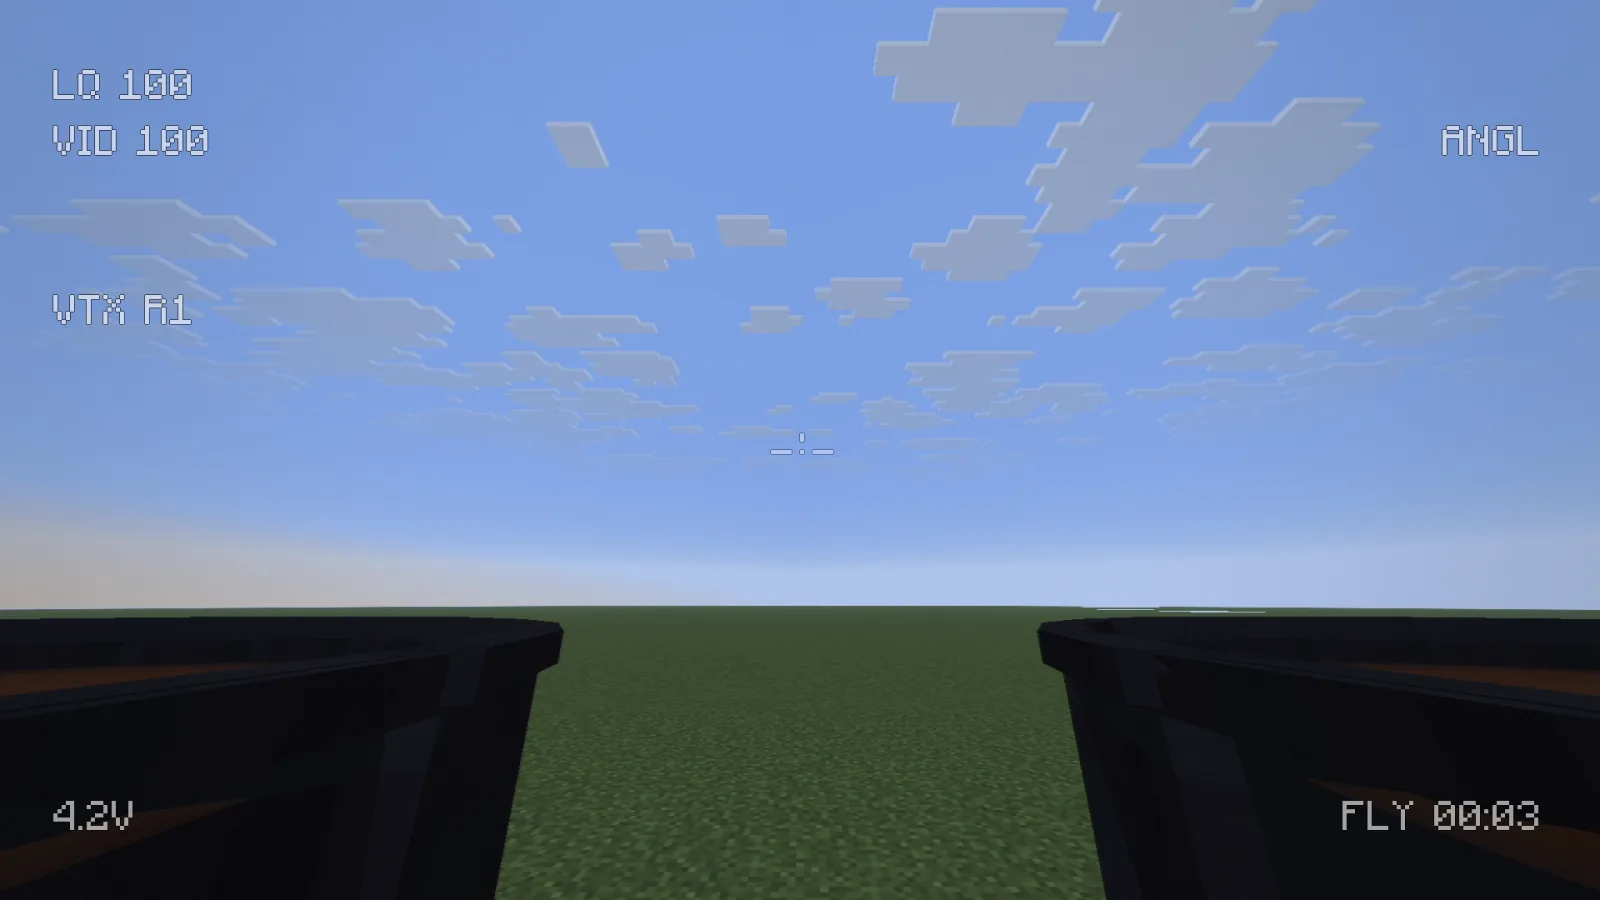
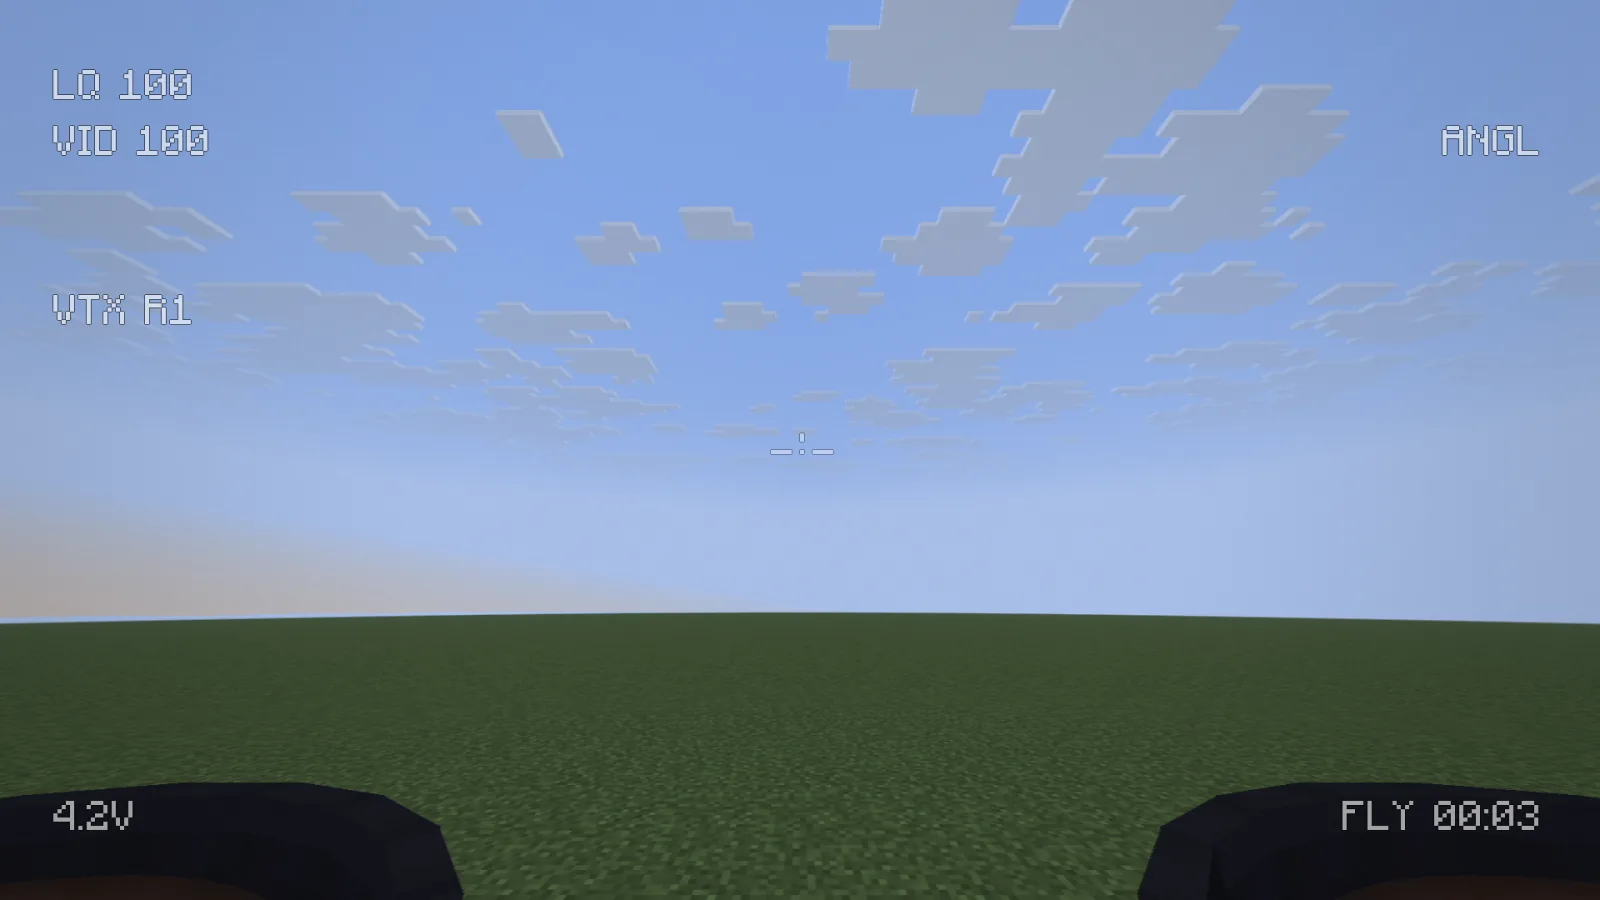
Doku: Ducts im FPV-Bild liegen bei Whoop und Cinewhoop unten in den Ecken, weil die Kamera wie bei echten darüber sitzt (vorher „beim Cinewhoop an den Seiten“); Bild des Whoops aus dem Release-Stand

diff --git a/docs/guide/index.html b/docs/guide/index.html
@@ -338,7 +338,7 @@
 <li><span lang="en"><strong>Image format</strong> (<em>Video</em> tab): <em>16:9</em> fills the whole window as before; <em>4:3</em> shows the picture like analog goggles, with black bars left and right, more view above and below and the OSD inside the 4:3 image; <em>Auto</em> picks 4:3 for analog and 16:9 for digital video, also while spectating. The setting is personal and changes nothing for the server or the flight model.</span><span lang="de"><strong>Bildformat</strong> (Tab <em>Video</em>): <em>16:9</em> füllt wie bisher das ganze Fenster; <em>4:3</em> zeigt das Bild wie eine analoge Brille, mit schwarzen Rändern links und rechts, mehr Sicht oben und unten und dem OSD im 4:3-Bild; <em>Auto</em> nimmt 4:3 für analoges und 16:9 für digitales Video, auch beim Zuschauen. Die Einstellung ist persönlich und ändert nichts für Server oder Flugmodell.</span></li>
 <li><span lang="en"><strong>Video behind obstacles:</strong> trees, houses, forests, water and hills weaken analog and digital video by what they are made of. Leaves cost a little per block, wooden walls more, masonry and concrete a lot; trunks, earth, rock, water and metal let nothing through, but the signal still bends around edges. Hiding behind a tree shows in the picture at freestyle distances, and flying close past an obstacle already costs some signal. With nothing in the way the range is the same as before.</span><span lang="de"><strong>Video hinter Hindernissen:</strong> Bäume, Häuser, Wälder, Wasser und Hügel schwächen analoges und digitales Video je nach Material. Laub kostet pro Block wenig, Holzwände mehr, Mauerwerk und Beton viel; Stämme, Erde, Fels, Wasser und Metall lassen nichts durch, um Kanten beugt sich das Signal aber trotzdem. Wer sich hinter einem Baum versteckt, sieht das bei Freestyle-Entfernungen im Bild, und schon knapp an einem Hindernis vorbei kostet es etwas Signal. Ohne Hindernis ist die Reichweite dieselbe wie bisher.</span></li>
 <li><span lang="en"><strong>LED lighting in FPV view</strong> (<em>Video</em> tab, on by default) lets the LED strip light up your FPV view in a cone in front of the drone at night and in caves; turn it off just for you. If a graphics driver draws the light wrong, Propwash notices and switches to a simpler brightening by itself.</span><span lang="de"><strong>LED-Ausleuchtung</strong> (Tab <em>Video</em>, Standard an) lässt den LED-Streifen nachts und in Höhlen das FPV-Bild in einem Lichtkegel vor der Drohne aufhellen; aus schaltet sie nur für dich ab. Zeichnet ein Grafiktreiber das Licht falsch, merkt Propwash das und schaltet selbst auf eine einfache Aufhellung um.</span></li>
-<li><span lang="en"><strong>Ducts in FPV view</strong> (<em>Display</em> tab, on by default): whoops and cinewhoops see their own ducts where the real camera would – the front ducts in the lower corners on a whoop, at the sides on a cinewhoop – matching camera position, uptilt, field of view and paint. Display only, no effect on the flight model.</span><span lang="de"><strong>Ducts im FPV-Bild</strong> (Tab <em>Darstellung</em>, Standard an): Whoops und Cinewhoops sehen ihre eigenen Ducts dort, wo die echte Kamera sie sähe – beim Whoop die vorderen Ducts in den unteren Ecken, beim Cinewhoop an den Seiten –, passend zu Kameraposition, Uptilt, Sichtfeld und Lackierung. Nur Darstellung, kein Einfluss auf das Flugmodell.</span></li>
+<li><span lang="en"><strong>Ducts in FPV view</strong> (<em>Display</em> tab, on by default): whoops and cinewhoops see their own ducts where the real camera would – the front ducts in the lower corners, because the camera sits above them like on real ones – matching camera position, uptilt, field of view and paint. Display only, no effect on the flight model.</span><span lang="de"><strong>Ducts im FPV-Bild</strong> (Tab <em>Darstellung</em>, Standard an): Whoops und Cinewhoops sehen ihre eigenen Ducts dort, wo die echte Kamera sie sähe – die vorderen Ducts in den unteren Ecken, weil die Kamera wie bei echten darüber sitzt –, passend zu Kameraposition, Uptilt, Sichtfeld und Lackierung. Nur Darstellung, kein Einfluss auf das Flugmodell.</span></li>
 </ul>
 <figure class="docs-figure">
 <div class="shot"><img src="../../assets/img/docs/fpv-ducts-whoop-800.webp" srcset="../../assets/img/docs/fpv-ducts-whoop-800.webp 800w, ../../assets/img/docs/fpv-ducts-whoop-1600.webp 1600w" sizes="(min-width: 1100px) 760px, 100vw" width="800" height="450" loading="lazy" decoding="async" alt="FPV view of the 65 mm whoop with the camera tilted up 20 degrees: the two front ducts as dark rings in the lower corners, the meadow and the sky in between, OSD at the edges" data-de-alt="FPV-Bild des 65-mm-Whoops mit 20 Grad Kamerawinkel: die beiden vorderen Ducts als dunkle Ringe in den unteren Ecken, dazwischen Wiese und Himmel, OSD an den Rändern"></div>
